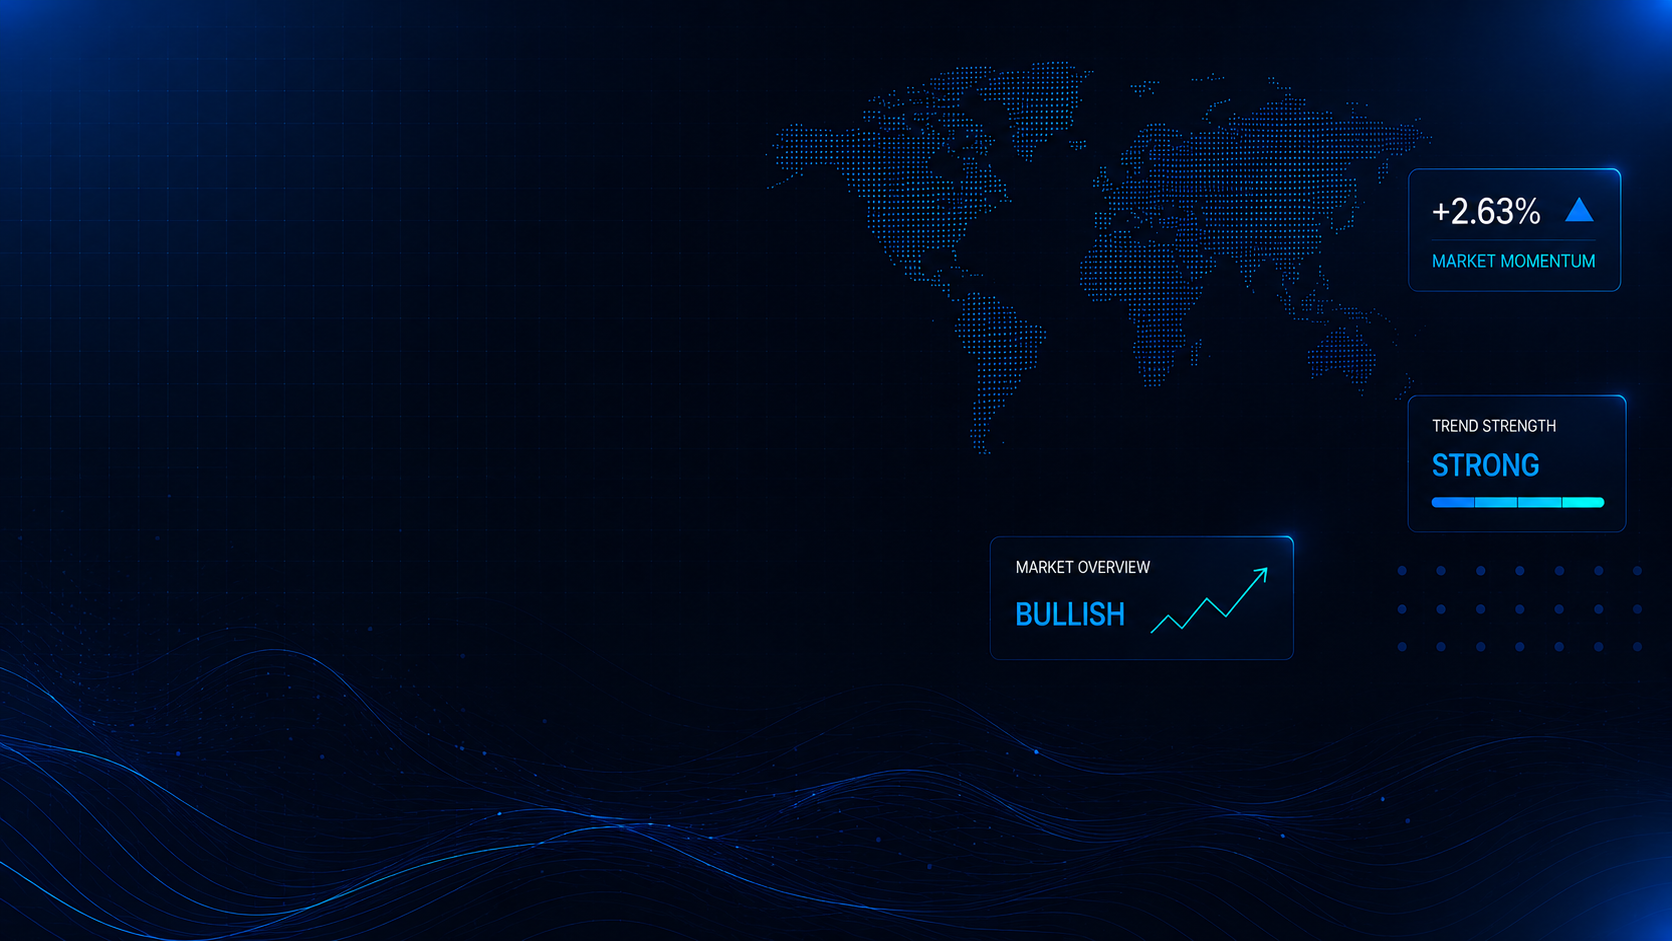
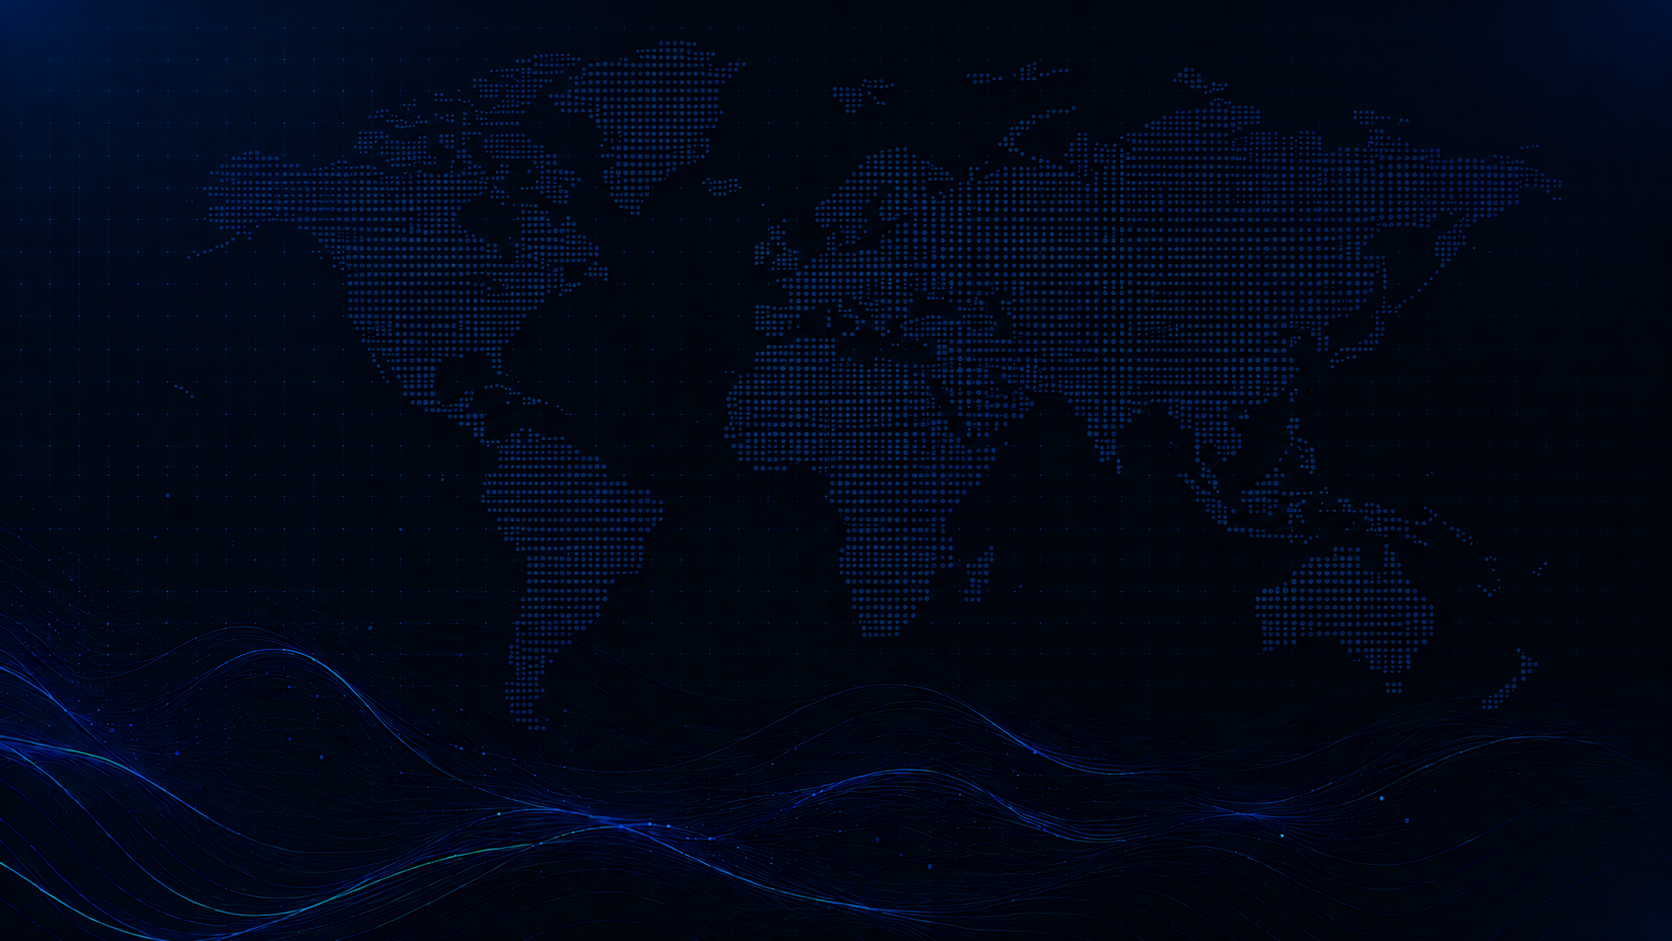
Update homepage hero and SEO

diff --git a/app/page.tsx b/app/page.tsx
@@ -48,17 +48,17 @@ export default function HomePage() {
   {/* HERO CONTENT */}
   <div className="relative z-10 min-h-[calc(100vh-56px)]">
     {/* TITLE */}
-    <div className="absolute left-1/2 top-[48%] w-full -translate-x-1/2 -translate-y-1/2 px-5 text-center md:left-32 md:top-[40%] md:w-auto md:translate-x-0 md:text-left xl:left-40">
-      <h1 className="whitespace-nowrap text-4xl font-black tracking-tight text-white sm:text-5xl md:text-6xl xl:text-7xl">
+    <div className="absolute left-1/2 top-[48%] w-full -translate-x-1/2 -translate-y-1/2 px-5 text-center md:left-1/2 md:top-[40%] md:w-auto md:-translate-x-1/2 md:text-CENTER">
+      <h1 className="whitespace-nowrap text-[44px] font-black tracking-tight text-white sm:text-5xl md:text-6xl xl:text-7xl">
         TRADE SMARTER
       </h1>
 
-      <p className="mt-2 text-center text-lg font-bold tracking-[0.35em] text-white sm:text-xl md:text-2xl">
+      <p className="mt-2 text-center text-xl font-bold tracking-[0.35em] text-white sm:text-xl md:text-2xl">
         STAY AHEAD
       </p>
 
       {/* Mobile Education Text */}
-      <div className="mt-5 space-y-1 text-center text-sm font-semibold text-cyan-300 md:hidden">
+      <div className="mt-5 space-y-1 text-center text-base font-semibold text-cyan-300 md:hidden">
         <p>Trading Education</p>
         <p>Risk-Free Practice</p>
         <p>AI-Powered Learning</p>
@@ -71,7 +71,7 @@ export default function HomePage() {
     </div>
 
     {/* BUTTONS */}
-    <div className="absolute left-1/2 top-5 flex w-auto -translate-x-1/2 justify-center gap-3 md:bottom-40 md:left-[30%] md:top-auto md:-translate-x-1/2 xl:left-[30%]">
+    <div className="absolute left-1/2 top-5 flex w-auto -translate-x-1/2 justify-center gap-3 md:bottom-40 md:left-1/2 md:top-auto md:-translate-x-1/2">
       <Link
         href="/learn"
         className="flex h-12 min-w-[135px] items-center justify-center rounded-xl bg-cyan-400 px-7 text-sm font-black text-black transition hover:bg-cyan-300"
